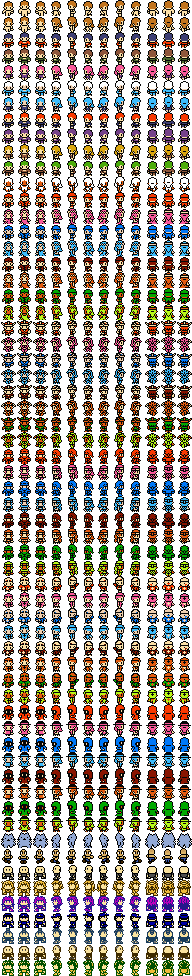
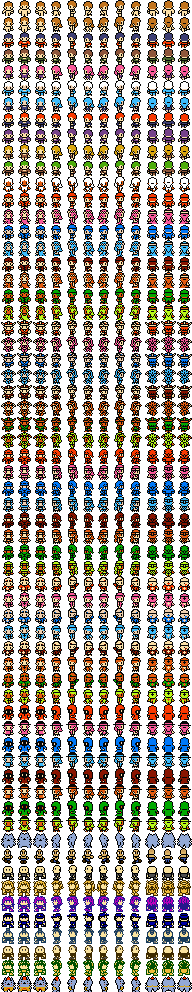
add custom skin Grand

diff --git a/shared/config.ts b/shared/config.ts
@@ -14,7 +14,7 @@ export const CRAZY_BOMB_MIN = FDate.from('1s');
 export const CRAZY_BOMB_MAX = FDate.from('5s');
 export const CRAZY_BOMB_BOOST = 5;
 export const SKINS_COUNT = 52;
-export const CUSTOM_SKINS_COUNT = 9;
+export const CUSTOM_SKINS_COUNT = 10;
 export const TIMEOUT_MESSAGE = FDate.from('2s');
 export const TIMEOUT_RECONNECT = FDate.from('10s');
 export const WAIT_FOR_LIMIT = FDate.from('15s');

diff --git a/server/class/Player.ts b/server/class/Player.ts
@@ -213,6 +213,10 @@ export class Player extends Entity {
             this.#customSkin = 0;
             break;
           }
+          case 'grand': {
+            this.#customSkin = 9;
+            break;
+          }
 
           case 'skin': {
             const [customSkin = '0'] = args;
